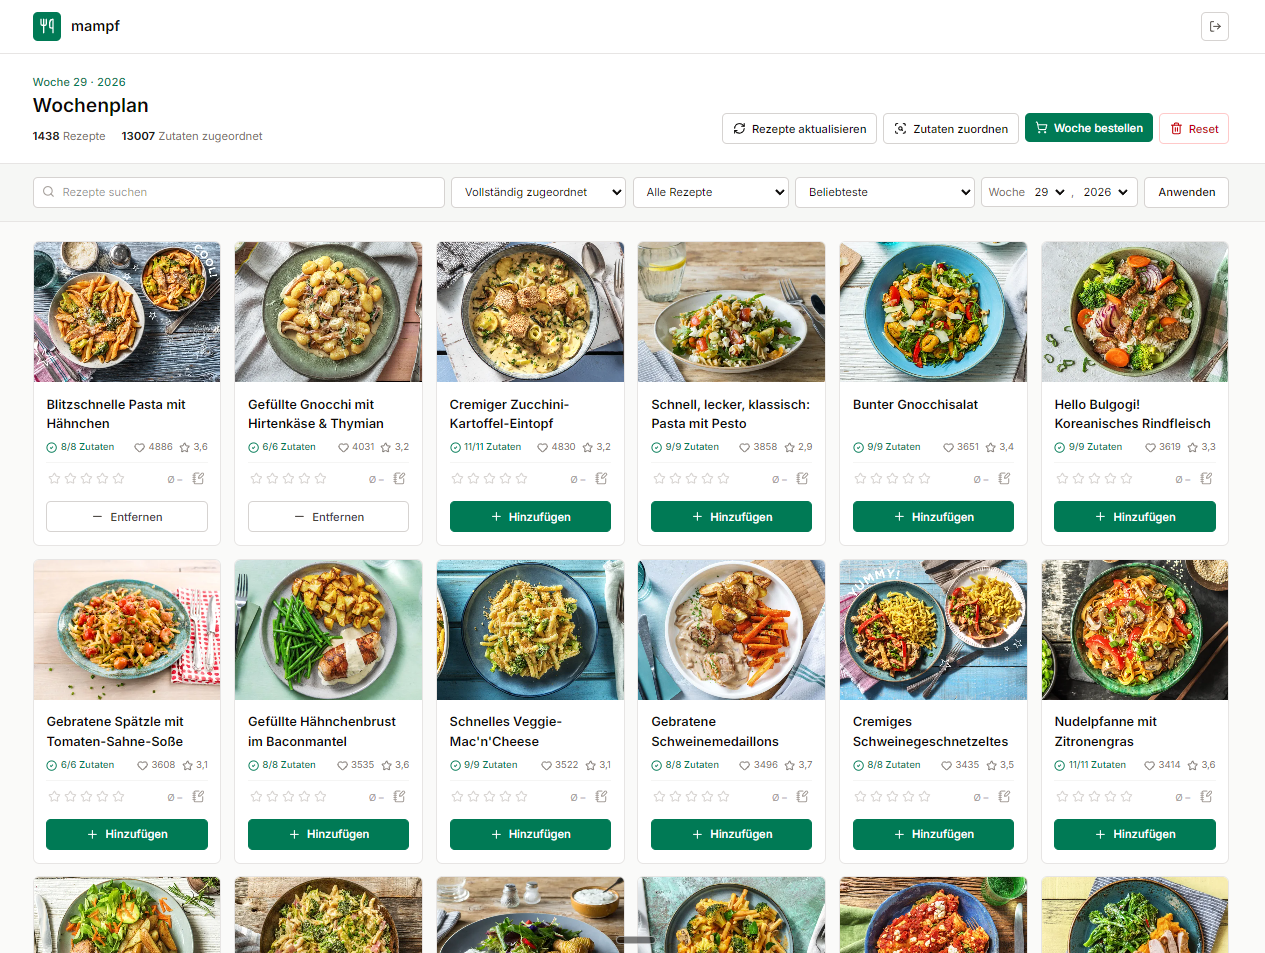
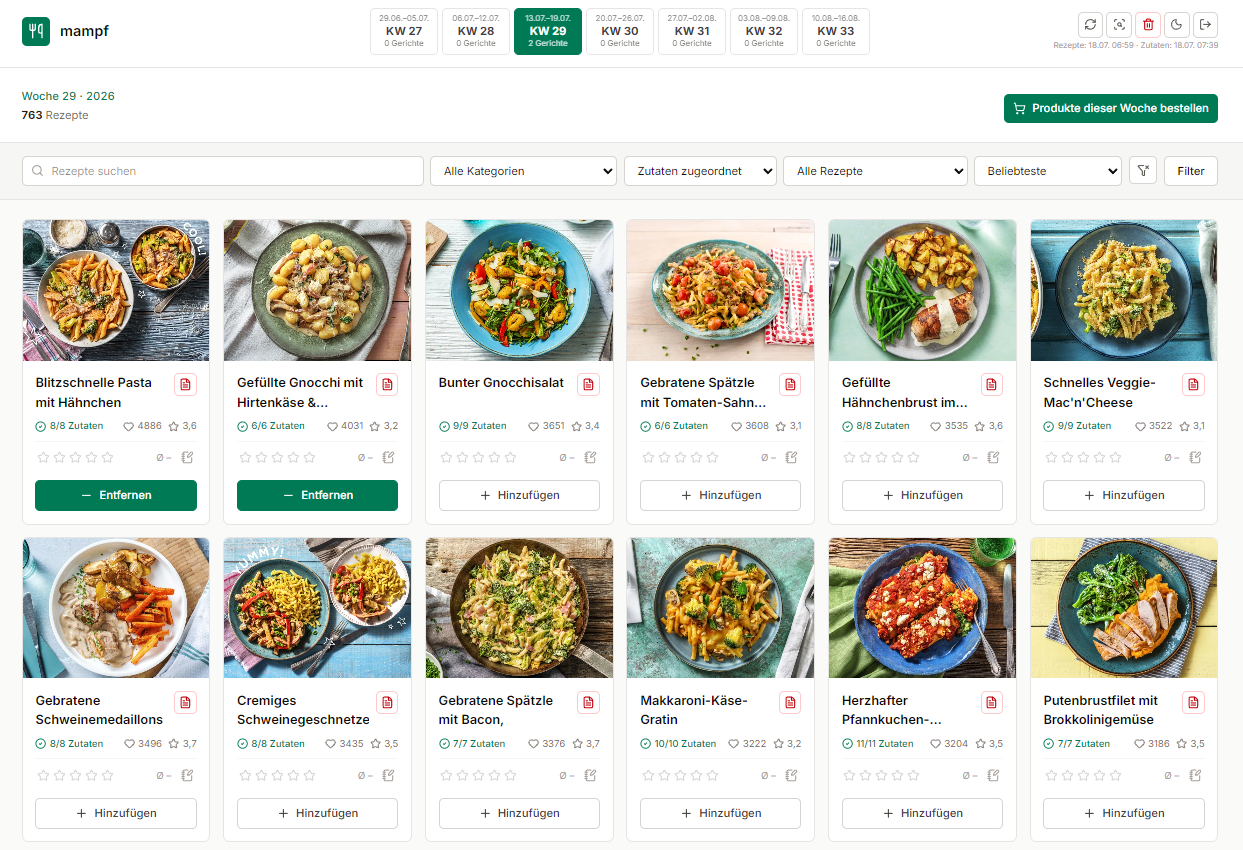
- Add variables `sampledProgress`, `sampledAt`, and `progressSamples` for progress tracking. - Sort and calculate `remaining` time using a median from `progressSamples`. - Update package version to `1.1.9` and upgrade `lucide` dependency to version `^1.25.0`.

diff --git a/assets/app.js b/assets/app.js
@@ -358,6 +358,9 @@ if ($taskForm !== null) {
     let controller = new AbortController();
     let startedAt = performance.now();
     let currentProgress = 1;
+    let sampledProgress = 0;
+    let sampledAt = startedAt;
+    let progressSamples = [];
     let cancellationSent = false;
     let terminal = false;
     let formatDuration = seconds => {
@@ -376,16 +379,29 @@ if ($taskForm !== null) {
             $time.textContent = `${formatDuration(elapsed)} vergangen`;
             return;
         }
-        if (currentProgress < 1) {
+        if (progressSamples.length === 0) {
             $time.textContent = `${formatDuration(elapsed)} vergangen · Restzeit wird berechnet`;
             return;
         }
-        let remaining = (elapsed / currentProgress) * (100 - currentProgress);
+        let sortedSamples = [...progressSamples].sort((first, second) => first - second);
+        let secondsPerPercent = sortedSamples[Math.floor(sortedSamples.length / 2)];
+        let remaining = secondsPerPercent * (100 - currentProgress);
         $time.textContent = `${formatDuration(elapsed)} vergangen · Restzeit ca. ${formatDuration(remaining)}`;
     };
     let timeInterval = window.setInterval(updateTime, 1000);
     let applyUpdate = update => {
-        currentProgress = Math.max(1, Math.min(100, Number(update.progress) || 1));
+        let nextProgress = Math.max(1, Math.min(100, Number(update.progress) || 1));
+        let now = performance.now();
+        if (sampledProgress === 0) {
+            sampledProgress = nextProgress;
+            sampledAt = now;
+        } else if (nextProgress > sampledProgress) {
+            progressSamples.push((now - sampledAt) / 1000 / (nextProgress - sampledProgress));
+            progressSamples = progressSamples.slice(-3);
+            sampledProgress = nextProgress;
+            sampledAt = now;
+        }
+        currentProgress = nextProgress;
         $progress.style.width = `${currentProgress}%`;
         $percentage.textContent = `${currentProgress} %`;
         $status.textContent = update.message || 'Vorgang läuft.';

diff --git a/src/HelloFreshScraper.php b/src/HelloFreshScraper.php
@@ -285,6 +285,7 @@ final class HelloFreshScraper
                         message: 'Keine HelloFresh-Zutaten vorhanden. Bitte zuerst die Rezepte aktualisieren.'
                     );
                 }
+                $ingredientsChanged = false;
                 foreach ($ingredients as &$ingredient) {
                     $checkpoint?->__invoke();
                     if (!is_array(value: $ingredient)) {
@@ -309,11 +310,16 @@ final class HelloFreshScraper
                     if ($ingredient === $previousIngredient) {
                         continue;
                     }
-                    $this->database->updateIngredients(recipeId: (int) $recipe['id'], ingredients: $ingredients);
+                    $ingredientsChanged = true;
                 }
                 unset($ingredient);
+                if ($ingredientsChanged) {
+                    $this->database->updateIngredients(recipeId: (int) $recipe['id'], ingredients: $ingredients);
+                }
                 $processed++;
-                $progress?->__invoke((string) $recipe['name'], true, $processed, count(value: $recipes));
+                if ($processed % 10 === 0 || $processed === count(value: $recipes)) {
+                    $progress?->__invoke((string) $recipe['name'], true, $processed, count(value: $recipes));
+                }
             } catch (TaskCancelledException $exception) {
                 throw $exception;
             } catch (RuntimeException $exception) {

diff --git a/src/Database.php b/src/Database.php
@@ -544,11 +544,8 @@ final class Database
         $sql = <<<'SQL'
             SELECT * FROM recipes
             WHERE ingredient_count > 0
+              AND mapped_ingredient_count < ingredient_count
             ORDER BY
-                CASE
-                    WHEN mapped_ingredient_count < ingredient_count THEN 0
-                    ELSE 1
-                END ASC,
                 COALESCE(ingredients_scraped_at, '') ASC,
                 created_at ASC,
                 id ASC

diff --git a/tests/DatabaseTest.php b/tests/DatabaseTest.php
@@ -156,7 +156,7 @@ final class DatabaseTest extends TestCase
         $this->assertSame('Beta', $popular[0]['name']);
         $this->assertSame('Alpha', $italian[0]['name']);
         $this->assertSame('Alpha', $mappingRecipes[0]['name']);
-        $this->assertCount(2, $mappingRecipes);
+        $this->assertCount(1, $mappingRecipes);
         $this->assertSame(3, $database->mappedIngredientCount('', 2026, 29));
         $this->assertSame(1, $database->mappedIngredientCount('Alpha', 2026, 29));
         $this->assertSame(2, $database->mappedIngredientCount('', 2026, 29, ingredientFilter: 'mapped'));